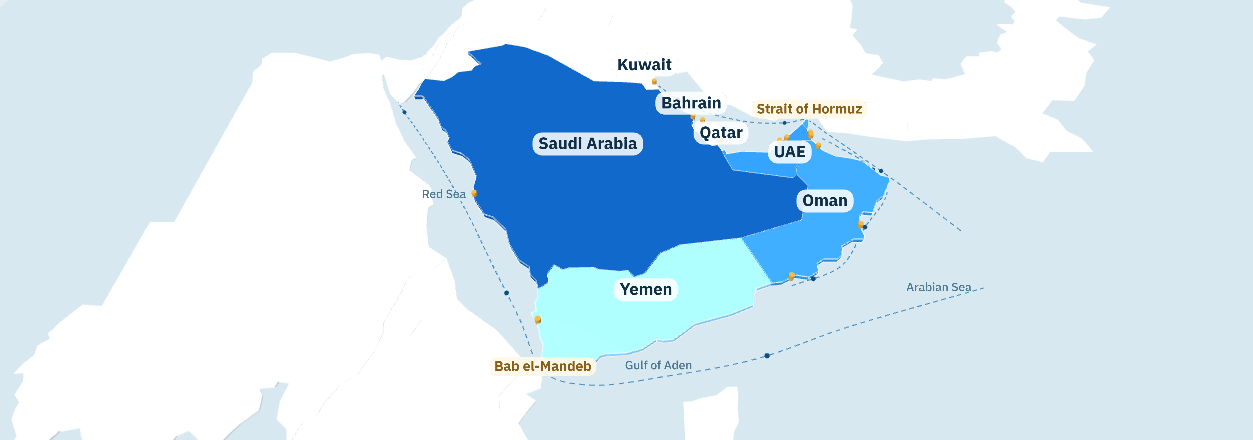
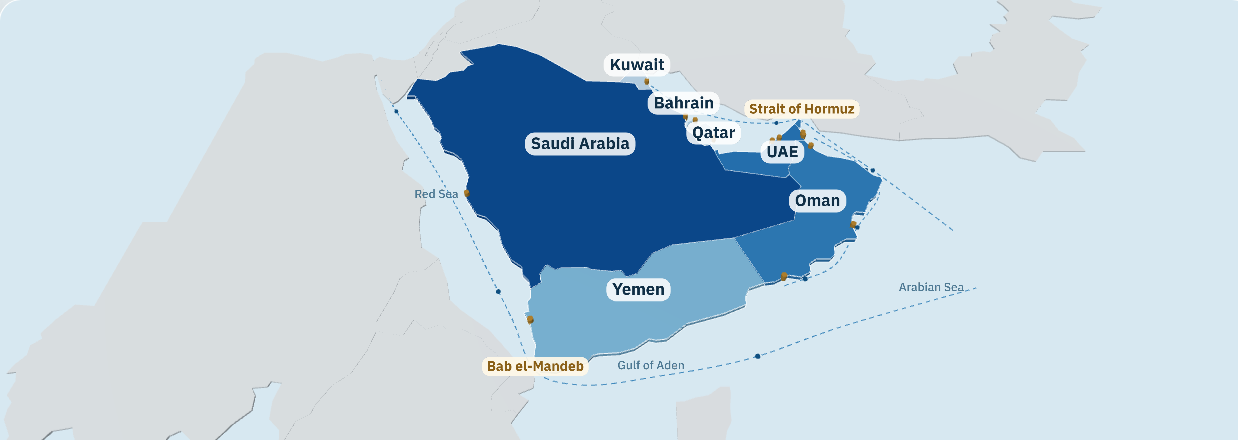
Frosted glass design; fix washed-out 3D network and Overview map colours
- 3D policy network: 3d-force-graph prefers a global THREE over its bundled
  copy. The Overview map leaves Three.js r128 on window.THREE, so after
  visiting Overview the network rendered with r128 lighting and colour
  handling and every node came out several times too bright (pale yellow
  and cyan). The bundle is now fetched and run with the global hidden.
  Layout is mostly computed before the first frame, the canvas is
  transparent over a glass panel, and the legend matches the node colours.
- Overview 3D map: light summed to about 1.4x, washing pale blues to cyan
  and grey neighbours to white. Lowered to about 1x; poster regenerated.
  If the 3D view fails, the 2D fallback no longer overlaps the caption.
- Frosted glass layer in the existing palette: translucent panels with a
  light rim and soft depth over a fixed colour field; navy glass sidebar
  and white glass topbar float on wider screens with a frosted scroll
  edge; pill controls; lighter glass for items inside panels. Secondary
  text darkened for contrast. Phones drop panel blur for smooth
  scrolling; reduced transparency, more contrast and print get solid
  panels. Removes the solid-white Phase 4 overrides.
- Cache version bumped.

diff --git a/styles.css b/styles.css
@@ -1085,14 +1085,11 @@ html.scroll-locked, html.scroll-locked body { overflow: hidden; overscroll-behav
 .print-only { position: absolute; left: -10000px; top: 0; width: 900px; }
 
 /* ---------- Phase 4: UX refinements ---------- */
-/* Data sits on solid surfaces; glass is kept for the sidebar and the drawers. */
-.card, .kpi-card, .table-wrap, .hero-asof, .pn-stage, .pn-detail, .record-card, .theme-row { background: #fff !important; -webkit-backdrop-filter: none !important; backdrop-filter: none !important; }
+/* Glass surfaces are defined once, in the frosted glass layer at the end of this file. */
 .card::after, .kpi-card::after, .global-filters::after, .pn-detail::after, .hero-asof::after { display: none !important; }
-.card, .kpi-card { border: 1px solid #dde6ec !important; box-shadow: 0 1px 2px rgba(16,47,70,.05), 0 6px 18px rgba(16,47,70,.06) !important; }
-.filter-drawer, .assistant-panel { background: rgba(250,252,253,.86) !important; -webkit-backdrop-filter: blur(22px) saturate(160%); backdrop-filter: blur(22px) saturate(160%); }
 
 /* Chip bar */
-.filter-bar { display: flex !important; flex-wrap: wrap; align-items: center; gap: 8px 12px; margin-bottom: 18px; padding: 10px 14px !important; background: #fff !important; border: 1px solid #dde6ec !important; border-radius: 12px; }
+.filter-bar { display: flex !important; flex-wrap: wrap; align-items: center; gap: 8px 12px; margin-bottom: 18px; padding: 10px 14px !important; border-radius: 12px; }
 .filter-bar-label { display: inline-flex; align-items: center; gap: 6px; color: #20475f; font-size: 14px; }
 .filter-bar .active-filters { display: flex; flex-wrap: wrap; align-items: center; gap: 4px 6px; flex: 1 1 260px; margin: 0; padding: 0; border: 0; }
 .filter-bar .filter-chip { display: inline-flex; align-items: center; gap: 4px; min-height: 30px; padding: 2px 4px 2px 11px; padding-inline: 11px 4px; color: #174d70; background: #eaf3f9; border: 1px solid #cfe2ee; border-radius: 999px; font-size: 13px; font-weight: 600; }
@@ -1221,3 +1218,177 @@ html.scroll-locked, html.scroll-locked body { overflow: hidden; overscroll-behav
 .ex-table tbody th { font-weight: 600; color: #20475f; }
 .ex-table .ex-group th { color: #8a5f17; background: #fbf6ea; font: 600 12px var(--condensed); letter-spacing: .4px; text-transform: uppercase; }
 @media print { .ex-data { display: none; } .report-exhibit { background: #fff; } }
+
+/* ---------- Frosted glass (visionOS-style), same palette ----------
+   Translucent white panels with a light rim and soft depth, floating over a soft colour field in the
+   dashboard palette (navy, blue, teal, warm gold). Data panels stay light enough for 4.5:1 text. */
+:root {
+  --fg-fill: linear-gradient(160deg, rgba(255,255,255,.76) 0%, rgba(255,255,255,.5) 100%);
+  --fg-fill-strong: linear-gradient(160deg, rgba(255,255,255,.88) 0%, rgba(255,255,255,.72) 100%);
+  --fg-item: rgba(255,255,255,.5);
+  --fg-item-hover: rgba(255,255,255,.76);
+  --fg-control: rgba(255,255,255,.6);
+  --fg-rim: rgba(255,255,255,.8);
+  --fg-line: rgba(16,47,70,.08);
+  --fg-blur: blur(26px) saturate(175%);
+  --fg-shadow: inset 0 1px 0 rgba(255,255,255,.92), inset 0 0 0 1px rgba(255,255,255,.2), 0 1px 2px rgba(16,47,70,.05), 0 14px 40px rgba(16,47,70,.11);
+  --fg-shadow-hover: inset 0 1px 0 #fff, inset 0 0 0 1px rgba(255,255,255,.32), 0 2px 4px rgba(16,47,70,.06), 0 22px 52px rgba(16,47,70,.16);
+  --fg-item-shadow: inset 0 1px 0 rgba(255,255,255,.88), 0 2px 8px rgba(16,47,70,.05);
+  --fg-radius: 22px;
+  --fg-radius-sm: 14px;
+  --radius: 20px;
+  --muted: #5f707c;
+  --secondary: #4a5f6e;
+}
+
+/* Backdrop: a fixed colour field with a few soft light orbs, which the glass blurs and tints. */
+html { background: #e5ecf1; }
+body { background: transparent; background-attachment: scroll; }
+body::before {
+  position: fixed; inset: 0; z-index: -1; content: ""; pointer-events: none;
+  background:
+    radial-gradient(circle at 80% 26%, rgba(255,255,255,.42) 0, rgba(255,255,255,.42) 7vmax, transparent 10vmax),
+    radial-gradient(circle at 30% 70%, rgba(17,106,171,.16) 0, rgba(17,106,171,.16) 10vmax, transparent 15vmax),
+    radial-gradient(circle at 62% 92%, rgba(214,165,76,.24) 0, rgba(214,165,76,.24) 8vmax, transparent 12vmax),
+    radial-gradient(62vw 58vh at 4% 2%, rgba(17,106,171,.48), transparent 64%),
+    radial-gradient(50vw 52vh at 100% 6%, rgba(39,133,127,.4), transparent 66%),
+    radial-gradient(58vw 62vh at 92% 100%, rgba(214,165,76,.46), transparent 64%),
+    radial-gradient(46vw 56vh at 10% 100%, rgba(16,47,70,.26), transparent 68%),
+    radial-gradient(42vw 42vh at 54% 46%, rgba(255,251,242,.8), transparent 72%),
+    linear-gradient(160deg, #dbe7f0 0%, #ecf0ee 52%, #efe5d3 100%);
+}
+
+/* Sidebar: navy glass. Topbar: white glass. Both float on wider screens. */
+.sidebar {
+  background: linear-gradient(180deg, rgba(13,40,60,.86) 0%, rgba(17,56,82,.8) 52%, rgba(13,42,62,.88) 100%);
+  -webkit-backdrop-filter: blur(24px) saturate(160%); backdrop-filter: blur(24px) saturate(160%);
+  border: 1px solid rgba(255,255,255,.14);
+  box-shadow: inset 0 1px 0 rgba(255,255,255,.16), inset 0 0 0 1px rgba(255,255,255,.04), 0 18px 48px rgba(10,34,51,.28);
+}
+.sidebar::before, .sidebar::after { border-radius: inherit; }
+.nav-item { border-radius: 999px; }
+.nav-item.active { background: linear-gradient(180deg, rgba(255,255,255,.26) 0%, rgba(255,255,255,.1) 100%); box-shadow: inset 0 1px 0 rgba(255,255,255,.34), inset 0 0 0 1px rgba(255,255,255,.12), inset 3px 0 #e2b84f, 0 8px 20px rgba(4,20,32,.3); }
+.topbar {
+  background: linear-gradient(180deg, rgba(255,255,255,.74), rgba(255,255,255,.52));
+  -webkit-backdrop-filter: var(--fg-blur); backdrop-filter: var(--fg-blur);
+  border: 1px solid var(--fg-rim);
+  box-shadow: var(--fg-shadow);
+}
+@media (min-width: 761px) {
+  .app-shell { grid-template-columns: 272px minmax(0, 1fr); }
+  .app-shell.nav-collapsed { grid-template-columns: 88px minmax(0, 1fr); }
+  .sidebar { top: 12px; height: calc(100vh - 24px); margin-block: 12px; margin-inline-start: 12px; border-radius: 24px; overflow-x: hidden; overflow-y: auto; scrollbar-width: none; }
+  .topbar { top: 12px; margin: 12px clamp(12px, 1.6vw, 24px) 0; border-radius: 20px; }
+}
+@media (min-width: 761px) and (max-width: 1060px) {
+  .app-shell, .app-shell.nav-collapsed { grid-template-columns: 88px minmax(0, 1fr); }
+}
+/* Scroll edge: content passing through the gap above the floating topbar is frosted, not shown sharp. */
+.workspace::before { content: ""; position: sticky; top: 0; z-index: 29; display: block; height: 12px; margin-bottom: -12px; pointer-events: none; background: rgba(255,255,255,.14); -webkit-backdrop-filter: blur(12px); backdrop-filter: blur(12px); }
+@media (max-width: 760px) { .workspace::before { height: 8px; margin-bottom: -8px; } }
+
+/* Primary glass panels */
+.card, .kpi-card, .entry-point, .filter-bar, .global-filters, .hero-asof, .table-wrap, .pn-stage, .pn-detail, .scene-card, .pn3d-stage {
+  background: var(--fg-fill);
+  border: 1px solid var(--fg-rim);
+  border-radius: var(--fg-radius);
+  box-shadow: var(--fg-shadow);
+  -webkit-backdrop-filter: var(--fg-blur); backdrop-filter: var(--fg-blur);
+}
+.filter-bar { background: var(--fg-fill) !important; border: 1px solid var(--fg-rim) !important; border-radius: 18px; }
+.hero-asof { border-inline-start: 3px solid var(--gold); border-radius: 18px; }
+.card:hover, .kpi-card:hover, .entry-point:hover, .entry-point:focus-visible { border-color: #fff; box-shadow: var(--fg-shadow-hover); }
+.card-header { border-bottom-color: var(--fg-line); }
+.table-wrap.heatmap-wrap { background: transparent; border: 0; box-shadow: none; -webkit-backdrop-filter: none; backdrop-filter: none; }
+.card:has(.report-document), .table-wrap { background: var(--fg-fill-strong); }
+
+/* Headline cards: glass with a faint tint of their accent */
+.kpi-card, .kpi-card.kpi-primary { background: linear-gradient(160deg, rgba(255,255,255,.8) 0%, rgba(231,241,249,.54) 100%); }
+.kpi-card.kpi-teal { background: linear-gradient(160deg, rgba(255,255,255,.8) 0%, rgba(228,243,240,.56) 100%); }
+.kpi-card.kpi-gold { background: linear-gradient(160deg, rgba(255,255,255,.8) 0%, rgba(250,241,224,.6) 100%); }
+
+/* Items inside panels: lighter glass without a second blur */
+.record-card, .theme-row, .pn-card, .map-country-strip button, .map-fallback button, .tm-watch-item, .report-exhibit, .pn-tiles div, .pn-metric, .pn-analysis, .detail-stat, .related-record, .evidence-result, .report-evidence, .group-tiles div, .starter-questions button, .pn-recent a {
+  background: var(--fg-item);
+  border: 1px solid rgba(255,255,255,.74);
+  border-radius: var(--fg-radius-sm);
+  box-shadow: var(--fg-item-shadow);
+  -webkit-backdrop-filter: none; backdrop-filter: none;
+}
+.record-card:hover, .record-card[open], .theme-row:hover, .pn-card:hover, .map-country-strip button:hover, .map-fallback button:hover, .pn-recent a[href]:hover, .starter-questions button:hover {
+  background: var(--fg-item-hover); border-color: rgba(17,106,171,.24); box-shadow: inset 0 1px 0 #fff, 0 6px 16px rgba(16,47,70,.09);
+}
+.share-row:hover, .share-row:focus-visible { background: rgba(255,255,255,.55); }
+.share-track { background: rgba(16,47,70,.08); }
+
+/* Controls: frosted pills */
+.global-search { background: var(--fg-control); border: 1px solid var(--fg-rim); border-radius: 999px; box-shadow: inset 0 1px 2px rgba(16,47,70,.06); }
+.global-search:focus-within { background: rgba(255,255,255,.9); border-color: #8db8d3; box-shadow: 0 0 0 4px rgba(17,106,171,.12); }
+.global-search kbd { background: rgba(255,255,255,.7); border-color: rgba(16,47,70,.1); border-radius: 6px; }
+.button-outline, .pn-btn:not(.pn-btn-gold), .icon-button.update-button, .legend-button, .filter-toggle, .pagination button, .column-menu details > summary, .table-search, .topbar .icon-button {
+  background: linear-gradient(180deg, rgba(255,255,255,.86) 0%, rgba(255,255,255,.56) 100%);
+  border: 1px solid var(--fg-rim);
+  box-shadow: inset 0 1px 0 #fff, 0 2px 8px rgba(16,47,70,.08);
+}
+.button-outline:hover, .pn-btn:not(.pn-btn-gold):hover, .legend-button:hover, .pagination button:hover, .topbar .icon-button:hover { background: rgba(255,255,255,.95); border-color: rgba(17,106,171,.22); box-shadow: inset 0 1px 0 #fff, 0 6px 14px rgba(16,47,70,.12); }
+.filter-grid select, .filter-grid input, .report-form select, .explorer-controls select, .country-switcher select, .compare-selectors select, .network-mode-label select, .tm-country select, .filter-drawer .filter-grid select, .filter-drawer .filter-grid input {
+  background: var(--fg-control); border: 1px solid rgba(16,47,70,.11); border-radius: 12px; box-shadow: inset 0 1px 2px rgba(16,47,70,.05);
+}
+.chart-toolbar, .segmented-tabs { background: rgba(255,255,255,.46); border: 1px solid rgba(255,255,255,.76); border-radius: 999px; box-shadow: inset 0 1px 2px rgba(16,47,70,.07); }
+.segmented-tabs button { border-radius: 999px; }
+.segmented-tabs button[aria-pressed="true"] { color: #12364d; background: rgba(255,255,255,.95); box-shadow: inset 0 1px 0 #fff, 0 2px 6px rgba(16,47,70,.12); }
+
+/* Tables */
+.data-table th { background: rgba(244,248,251,.9); -webkit-backdrop-filter: blur(10px); backdrop-filter: blur(10px); }
+.data-table tbody tr { background: transparent; }
+.data-table tbody tr:nth-child(even) { background: rgba(255,255,255,.34); }
+.data-table tbody tr:hover { background: rgba(17,106,171,.07); }
+
+/* Policy network, 3D network and the Overview scene */
+.pn-stage { background: var(--fg-fill); }
+.pn3d-stage { overflow: hidden; }
+.pn3d-legend { background: rgba(255,255,255,.42); border-top: 1px solid rgba(255,255,255,.7); color: #3f5868; }
+.scene-card { overflow: hidden; }
+.scene-bar { background: rgba(255,255,255,.5); border-top: 1px solid rgba(255,255,255,.7); }
+.scene-host.scene-2d { background: transparent; }
+
+/* Floating layers: drawers, menus and tooltips */
+.filter-drawer, .assistant-panel, .detail-panel {
+  background: linear-gradient(160deg, rgba(255,255,255,.86), rgba(255,255,255,.7)) !important;
+  -webkit-backdrop-filter: blur(30px) saturate(170%); backdrop-filter: blur(30px) saturate(170%);
+  border-inline-start: 1px solid var(--fg-rim);
+}
+.filter-drawer-head, .filter-drawer-foot { border-color: var(--fg-line); }
+.column-options, .network-controls { background: rgba(255,255,255,.86); border: 1px solid var(--fg-rim); -webkit-backdrop-filter: var(--fg-blur); backdrop-filter: var(--fg-blur); }
+.chart-tooltip, .pn3d-tip, .map-scene-tooltip, .toast { background: rgba(16,47,70,.86); border: 1px solid rgba(255,255,255,.14); border-radius: 12px; -webkit-backdrop-filter: blur(14px) saturate(150%); backdrop-filter: blur(14px) saturate(150%); }
+
+/* Text on glass: secondary text a step darker so it keeps 4.5:1 over the tinted panels */
+.page-heading { border-bottom-color: rgba(16,47,70,.1); }
+.card-subtitle, .eyebrow, .app-footer, .scene-note, .entry-point small { color: #53687a; }
+.filter-none { color: #53687a; }
+
+/* Phones: panels drop the blur for smooth scrolling; the topbar keeps it */
+@media (max-width: 760px) {
+  .card, .kpi-card, .entry-point, .filter-bar, .global-filters, .hero-asof, .table-wrap, .pn-stage, .pn-detail, .scene-card, .pn3d-stage {
+    -webkit-backdrop-filter: none; backdrop-filter: none;
+  }
+  .card, .entry-point, .global-filters, .hero-asof, .pn-stage, .pn-detail, .scene-card, .pn3d-stage { background: linear-gradient(160deg, rgba(255,255,255,.88), rgba(255,255,255,.74)); }
+  .filter-bar { background: linear-gradient(160deg, rgba(255,255,255,.88), rgba(255,255,255,.74)) !important; }
+  .topbar { top: 8px; margin: 8px 8px 0; border-radius: 18px; background: linear-gradient(180deg, rgba(255,255,255,.82), rgba(255,255,255,.64)); -webkit-backdrop-filter: var(--fg-blur); backdrop-filter: var(--fg-blur); }
+}
+/* Less transparency or more contrast requested: solid panels */
+@media (prefers-reduced-transparency: reduce), (prefers-contrast: more) {
+  .card, .kpi-card, .entry-point, .global-filters, .hero-asof, .table-wrap, .pn-stage, .pn-detail, .scene-card, .pn3d-stage, .topbar, .record-card, .theme-row, .pn-card, .tm-watch-item, .report-exhibit {
+    background: #fff !important; -webkit-backdrop-filter: none !important; backdrop-filter: none !important; border-color: #cfdbe3 !important;
+  }
+  .filter-bar { background: #fff !important; border-color: #cfdbe3 !important; }
+  .sidebar { background: var(--navy); -webkit-backdrop-filter: none; backdrop-filter: none; }
+}
+/* Print: plain white pages */
+@media print {
+  body::before { display: none; }
+  html, body { background: #fff !important; }
+  .card, .kpi-card, .entry-point, .filter-bar, .global-filters, .hero-asof, .table-wrap, .report-exhibit, .pn-stage, .pn-detail, .scene-card, .pn3d-stage {
+    background: #fff !important; -webkit-backdrop-filter: none !important; backdrop-filter: none !important; box-shadow: none !important; border-color: #dfe6ec !important;
+  }
+}

diff --git a/network.js b/network.js
@@ -52,7 +52,21 @@ const reducedMotion = () => window.matchMedia("(prefers-reduced-motion: reduce)"
 const webgl = () => { try { const canvas = document.createElement("canvas"); return !!(canvas.getContext("webgl") || canvas.getContext("experimental-webgl")); } catch { return false; } };
 let graphLib = null, graph3d = null;
 function loadGraphLib() {
-  graphLib ||= new Promise((resolve, reject) => { if (window.ForceGraph3D) { resolve(); return; } const script = document.createElement("script"); script.src = "./assets/vendor/3d-force-graph.min.js"; script.onload = resolve; script.onerror = () => { graphLib = null; reject(new Error("The 3D graph library could not be loaded.")); }; document.head.append(script); });
+  // 3d-force-graph uses a global THREE, when one exists, instead of its own bundled Three.js (r162).
+  // The Overview map leaves Three.js r128 there; with it the graph renders with old lighting and colour
+  // handling and every node comes out several times too bright. So the bundle is fetched, then run
+  // synchronously with the global hidden, and the global is restored straight after.
+  graphLib ||= (async () => {
+    if (window.ForceGraph3D) return;
+    const response = await fetch("./assets/vendor/3d-force-graph.min.js");
+    if (!response.ok) throw new Error("The 3D graph library could not be loaded.");
+    const code = await response.text();
+    const hadThree = "THREE" in window, saved = window.THREE;
+    window.THREE = undefined;
+    try { const script = document.createElement("script"); script.textContent = code; document.head.append(script); }
+    finally { if (hadThree) window.THREE = saved; else delete window.THREE; }
+    if (!window.ForceGraph3D) throw new Error("The 3D graph library could not be loaded.");
+  })().catch((error) => { graphLib = null; throw error; });
   return graphLib;
 }
 function disposeGraph() { if (graph3d) { graph3d._destructor?.(); graph3d = null; } }
@@ -82,16 +96,17 @@ async function render3D(ui, records, focus) {
   const data = graphData(ui, records, focus);
   const still = reducedMotion();
   graph3d = window.ForceGraph3D()(host)
-    .width(host.clientWidth).height(host.clientHeight).backgroundColor("#f4f8fb").showNavInfo(false)
+    .width(host.clientWidth).height(host.clientHeight).backgroundColor("rgba(0,0,0,0)").showNavInfo(false)
     .graphData(data)
     .nodeVal((n) => 2 + Math.sqrt(n.count))
     .nodeColor((n) => n.color).nodeOpacity(1).nodeResolution(14)
     .nodeLabel((n) => `<div class="pn3d-tip"><strong>${ui.escapeHtml(n.name)}</strong><span>${ui.escapeHtml(DIMENSIONS[n.dim].singular)} · ${n.count.toLocaleString()} measures</span></div>`)
     .linkColor(() => "#4f6d82").linkWidth((l) => Math.min(3, .3 + Math.log2(1 + l.value) / 3)).linkOpacity(.55)
-    .warmupTicks(still ? 120 : 0).cooldownTicks(still ? 0 : 160)
+    // Most of the layout is computed before the first frame, so the opening view is already framed.
+    .warmupTicks(still ? 160 : 90).cooldownTicks(still ? 0 : 70)
     .onEngineStop(() => graph3d?.zoomToFit(still ? 0 : 500, 30))
     .onNodeClick((n) => { if (n.dim === "country") ui.setFilter("country", n.name); else { ui.state.networkView = "2d"; ui.state.networkDim = n.dim; ui.state.networkItem = n.name; renderNetworkPage(ui); } });
-  if (still) setTimeout(() => graph3d?.zoomToFit(0, 30), 50);
+  setTimeout(() => graph3d?.zoomToFit(still ? 0 : 400, 30), still ? 50 : 120);
   // Stop the render loop once the page is left.
   const watch = setInterval(() => { if (!host.isConnected) { clearInterval(watch); disposeGraph(); } }, 1000);
 }
@@ -124,7 +139,7 @@ export function renderNetworkPage(ui) {
 
   const toggle = `<div class="chart-toolbar" role="group" aria-label="Network view"><button type="button" data-pn-view="2d" aria-pressed="${!view3d}">2D view</button><button type="button" data-pn-view="3d" aria-pressed="${view3d}" ${webgl() ? "" : "disabled title='3D needs WebGL'"}>3D view</button></div>`;
   if (view3d) {
-    $("#page-content").innerHTML = `${ui.heading("Policy network", "A rotatable 3D view of how countries connect to policy domains, institutions, groups and families. Drag to rotate; select a node to open it.", "RELATIONSHIPS", toggle)}<section class="pn3d-stage"><div class="pn3d" id="pn3d" aria-label="3D policy network"></div><div class="pn3d-legend"><span><i style="background:#8ea3b1"></i>Countries</span><span><i style="background:${DIM_COLORS.domain}"></i>Policy domains</span><span><i style="background:${DIM_COLORS.institution}"></i>Institutions</span><span><i style="background:${DIM_COLORS.group}"></i>Policy groups</span>${Object.entries(FAMILY_COLORS).slice(0, 4).map(([name, color]) => `<span><i style="background:${color}"></i>${escapeHtml(name)}</span>`).join("")}</div></section>`;
+    $("#page-content").innerHTML = `${ui.heading("Policy network", "A rotatable 3D view of how countries connect to policy domains, institutions, groups and families. Drag to rotate; select a node to open it.", "RELATIONSHIPS", toggle)}<section class="pn3d-stage"><div class="pn3d" id="pn3d" aria-label="3D policy network"></div><div class="pn3d-legend"><span><i style="background:#5f7686"></i>Countries</span>${focus ? `<span><i style="background:#116aab"></i>${escapeHtml(focus)}</span>` : ""}<span><i style="background:${DIM_COLORS.domain}"></i>Policy domains</span><span><i style="background:${DIM_COLORS.institution}"></i>Institutions</span><span><i style="background:${DIM_COLORS.group}"></i>Policy groups</span>${Object.entries(FAMILY_COLORS).slice(0, 4).map(([name, color]) => `<span><i style="background:${color}"></i>${escapeHtml(name)}</span>`).join("")}</div></section>`;
     $$("[data-pn-view]").forEach((button) => button.addEventListener("click", () => { state.networkView = button.dataset.pnView; renderNetworkPage(ui); }));
     render3D(ui, records, focus);
     ui.refreshIcons();

diff --git a/app.js b/app.js
@@ -1,6 +1,6 @@
-import { COUNTRIES, COUNTRY_COLORS, filterRecords, getOptions, groupCount, loadFoodIndicators, loadFullRecords, loadSummaryRecords, monthKey } from "./data-service.js?v=pi-20261114";
+import { COUNTRIES, COUNTRY_COLORS, filterRecords, getOptions, groupCount, loadFoodIndicators, loadFullRecords, loadSummaryRecords, monthKey } from "./data-service.js?v=pi-20261114g";
 // Page modules load on first visit, so the overview does not download the report engine, Word writer and others.
-const pageModule = (name) => ({ network: () => import("./network.js?v=pi-20261114"), prices: () => import("./prices.js?v=pi-20261114"), reports: () => import("./reports.js?v=pi-20261114"), thismonth: () => import("./thismonth.js?v=pi-20261114") })[name]();
+const pageModule = (name) => ({ network: () => import("./network.js?v=pi-20261114g"), prices: () => import("./prices.js?v=pi-20261114g"), reports: () => import("./reports.js?v=pi-20261114g"), thismonth: () => import("./thismonth.js?v=pi-20261114g") })[name]();
 // A page that cannot load says so, instead of leaving a loading message on screen.
 const lazyPage = (name, exportName) => (...args) => pageModule(name).then((module) => module[exportName](...args)).catch((error) => {
   console.error(error);
@@ -11,8 +11,8 @@ const renderNetworkPage = lazyPage("network", "renderNetworkPage");
 const renderPricesPage = lazyPage("prices", "renderPricesPage");
 const renderReportsPage = lazyPage("reports", "renderReportsPage");
 const renderThisMonthPage = lazyPage("thismonth", "renderThisMonthPage");
-import { applyDocument, lang, setLang, t, term } from "./i18n.js?v=pi-20261114";
-import { loadThree, mountScene, webglAvailable } from "./scene3d.js?v=pi-20261114";
+import { applyDocument, lang, setLang, t, term } from "./i18n.js?v=pi-20261114g";
+import { loadThree, mountScene, webglAvailable } from "./scene3d.js?v=pi-20261114g";
 
 const MONTHS = ["January", "February", "March", "April", "May", "June", "July", "August", "September", "October", "November", "December"];
 const TYPE_COLORS = { all: "#116aab", decision: "#4f6d82", framework: "#40836d" };
@@ -371,7 +371,7 @@ async function renderScene(records) {
   if (view === "2d") { host.classList.add("scene-2d"); renderMap(records, host); return; }
   host.classList.remove("scene-2d");
   if (view === "poster") {
-    host.innerHTML = `<img class="scene-poster" src="./assets/scene-poster.png" alt="Map of the Arabian Peninsula showing the GCC States and Yemen, the shipping lanes through the Strait of Hormuz and Bab el-Mandeb, and the main ports." width="1253" height="440" />${webglAvailable() ? "" : '<p class="scene-fallback-note">The interactive 3D view needs WebGL, which this browser does not provide.</p>'}`;
+    host.innerHTML = `<img class="scene-poster" src="./assets/scene-poster.png" alt="Map of the Arabian Peninsula showing the GCC States and Yemen, the shipping lanes through the Strait of Hormuz and Bab el-Mandeb, and the main ports." width="1238" height="440" />${webglAvailable() ? "" : '<p class="scene-fallback-note">The interactive 3D view needs WebGL, which this browser does not provide.</p>'}`;
     return;
   }
   host.innerHTML = `<div class="loading-state"><span class="loading-mark"></span><span>Loading the 3D view…</span></div>`;
@@ -383,7 +383,9 @@ async function renderScene(records) {
     currentScene = mountScene(host, { topology, activity, handlers: { onCountry: openCountry, tooltip: (country) => `<strong>${escapeHtml(country)}</strong><span>${activity[country].toLocaleString()} measures in the last 12 months · select to open</span>` } });
     $("#scene-reset")?.addEventListener("click", () => currentScene?.reset());
   } catch {
+    // Fall back to the 2D map, sized like the chosen 2D view so its country key cannot overlap the caption.
     host.innerHTML = "";
+    host.classList.add("scene-2d");
     renderMap(records, host);
   }
 }

diff --git a/scene3d.js b/scene3d.js
@@ -30,6 +30,8 @@ export function webglAvailable() {
   try { const canvas = document.createElement("canvas"); return !!(window.WebGLRenderingContext && (canvas.getContext("webgl") || canvas.getContext("experimental-webgl"))); } catch { return false; }
 }
 let threePromise = null;
+// Three.js r128 stays on window.THREE because OrbitControls reads the global at run time. The Policy
+// Network's 3D library hides it while loading (see loadGraphLib in network.js) so it keeps its own copy.
 function loadScript(src) { return new Promise((resolve, reject) => { const script = document.createElement("script"); script.src = src; script.onload = resolve; script.onerror = () => reject(new Error(`Could not load ${src}`)); document.head.append(script); }); }
 export function loadThree() {
   threePromise ||= (window.THREE ? Promise.resolve() : loadScript("./assets/vendor/three.min.js")).then(() => window.THREE.OrbitControls ? null : loadScript("./assets/vendor/OrbitControls.js")).catch((error) => { threePromise = null; throw error; });
@@ -71,8 +73,10 @@ export function mountScene(host, { topology, activity, handlers }) {
   const controls = new THREE.OrbitControls(camera, renderer.domElement);
   controls.target.set(0, 0, 25);
   Object.assign(controls, { enableDamping: true, dampingFactor: .08, enablePan: false, minDistance: 260, maxDistance: 900, minPolarAngle: .35, maxPolarAngle: 1.05, rotateSpeed: .45, minAzimuthAngle: -.6, maxAzimuthAngle: .6 });
-  scene.add(new THREE.HemisphereLight(0xffffff, 0xc8d8e2, .95));
-  const sun = new THREE.DirectionalLight(0xffffff, .55); sun.position.set(-200, 500, 300); scene.add(sun);
+  // Light sums to about 1 on upward faces so countries show their 2D-map shades; brighter light washed the
+  // pale blues out to cyan and the grey neighbours to white.
+  scene.add(new THREE.HemisphereLight(0xffffff, 0xc8d8e2, .6));
+  const sun = new THREE.DirectionalLight(0xffffff, .42); sun.position.set(-200, 500, 300); scene.add(sun);
 
   // Projection: the region from 31°E to 63°E and 9°N to 33°N, fitted to the scene.
   // Corner points, not a polygon: a spherical polygon's winding would decide which side is "inside".

diff --git a/prices.js b/prices.js
@@ -1,7 +1,7 @@
-import { CURRENCY, GCC_PRICE_COUNTRIES, gccBasket, gccBasketSummary, comparableItems, countryPriceSummary, cpiMonthName, cpiSentences, cpiSummary, dietComponents, dietSummary, formatLocal, itemLookup, latestPricePerKg, median, perMonth, priceChanges, priceCountries } from "./food-analysis.js?v=pi-20261114";
+import { CURRENCY, GCC_PRICE_COUNTRIES, gccBasket, gccBasketSummary, comparableItems, countryPriceSummary, cpiMonthName, cpiSentences, cpiSummary, dietComponents, dietSummary, formatLocal, itemLookup, latestPricePerKg, median, perMonth, priceChanges, priceCountries } from "./food-analysis.js?v=pi-20261114g";
 
-export { COUNTRY_COLORS } from "./data-service.js?v=pi-20261114";
-import { COUNTRY_COLORS } from "./data-service.js?v=pi-20261114";
+export { COUNTRY_COLORS } from "./data-service.js?v=pi-20261114g";
+import { COUNTRY_COLORS } from "./data-service.js?v=pi-20261114g";
 const COMPONENT_COLORS = ["#b7852f", "#c2563f", "#8a6b3f", "#3f7f5a", "#2a9d8f", "#776bb0"];
 const shortName = (country) => country === "United Arab Emirates" ? "UAE" : country;
 const fmtPct = (value, digits = 0) => value === null || value === undefined || !Number.isFinite(value) ? "n/a" : `${value > 0 ? "+" : ""}${value.toFixed(digits)}%`;

diff --git a/narrative.js b/narrative.js
@@ -5,8 +5,8 @@
 // - every number in the prose passes through the Writer, which records it, so tests can trace it to the data;
 // - every measure named in the text is a cited record with a source link, listed again in the annex;
 // - counts support a statement but never open one; interpretation stays measured ("suggests", "is consistent with").
-import { approachesOf, examples } from "./policy-analysis.js?v=pi-20261114";
-import { cpiSummary, dietSummary, formatLocal, GCC_PRICE_COUNTRIES, gccBasket, gccBasketSummary } from "./food-analysis.js?v=pi-20261114";
+import { approachesOf, examples } from "./policy-analysis.js?v=pi-20261114g";
+import { cpiSummary, dietSummary, formatLocal, GCC_PRICE_COUNTRIES, gccBasket, gccBasketSummary } from "./food-analysis.js?v=pi-20261114g";
 
 export const COUNTRIES = ["Bahrain", "Kuwait", "Oman", "Qatar", "Saudi Arabia", "United Arab Emirates", "Yemen"];
 const DAY = 864e5;

diff --git a/index.html b/index.html
@@ -17,10 +17,10 @@
     <link rel="preconnect" href="https://fonts.googleapis.com" />
     <link rel="preconnect" href="https://fonts.gstatic.com" crossorigin />
     <link href="https://fonts.googleapis.com/css2?family=IBM+Plex+Sans:wght@400;500;600;700&family=IBM+Plex+Sans+Arabic:wght@400;600&family=IBM+Plex+Sans+Condensed:wght@400;500;600;700&display=swap" rel="stylesheet" />
-    <link rel="stylesheet" href="./styles.css?v=pi-20261114" />
+    <link rel="stylesheet" href="./styles.css?v=pi-20261114g" />
     <link rel="preload" href="./data/gcc-yemen-summary.json" as="fetch" crossorigin />
     <script src="./assets/vendor/lucide-icons.js" defer></script>
-    <script type="module" src="./app.js?v=pi-20261114"></script>
+    <script type="module" src="./app.js?v=pi-20261114g"></script>
   </head>
   <body>
     <div class="app-shell" id="app-shell">

diff --git a/thismonth.js b/thismonth.js
@@ -1,8 +1,8 @@
 // "This month": the latest briefing at a glance — key messages and themes from the narrative engine,
 // food price inflation with policy measures marked on it, what is new since the last visit, and a watchlist.
-import { buildBrief, COUNTRIES, THEMES, themesOf, toHtml } from "./narrative.js?v=pi-20261114";
-import { buildDocx } from "./docx.js?v=pi-20261114";
-import { loadEvents } from "./data-service.js?v=pi-20261114";
+import { buildBrief, COUNTRIES, THEMES, themesOf, toHtml } from "./narrative.js?v=pi-20261114g";
+import { buildDocx } from "./docx.js?v=pi-20261114g";
+import { loadEvents } from "./data-service.js?v=pi-20261114g";
 
 const $ = (selector) => document.querySelector(selector);
 const $$ = (selector) => [...document.querySelectorAll(selector)];

diff --git a/reports.js b/reports.js
@@ -1,8 +1,8 @@
 // Reports page: narrative technical briefs from the deterministic engine (narrative.js), with Word, PDF,
 // Markdown and text exports, a shareable link, and an optional AI-assisted draft when an endpoint is configured.
-import { buildBrief, COUNTRIES, toHtml, toMarkdown, toText } from "./narrative.js?v=pi-20261114";
-import { buildDocx } from "./docx.js?v=pi-20261114";
-import { loadEvents } from "./data-service.js?v=pi-20261114";
+import { buildBrief, COUNTRIES, toHtml, toMarkdown, toText } from "./narrative.js?v=pi-20261114g";
+import { buildDocx } from "./docx.js?v=pi-20261114g";
+import { loadEvents } from "./data-service.js?v=pi-20261114g";
 
 export const REPORT_TYPES = {
   monthly: "Monthly policy briefing",
